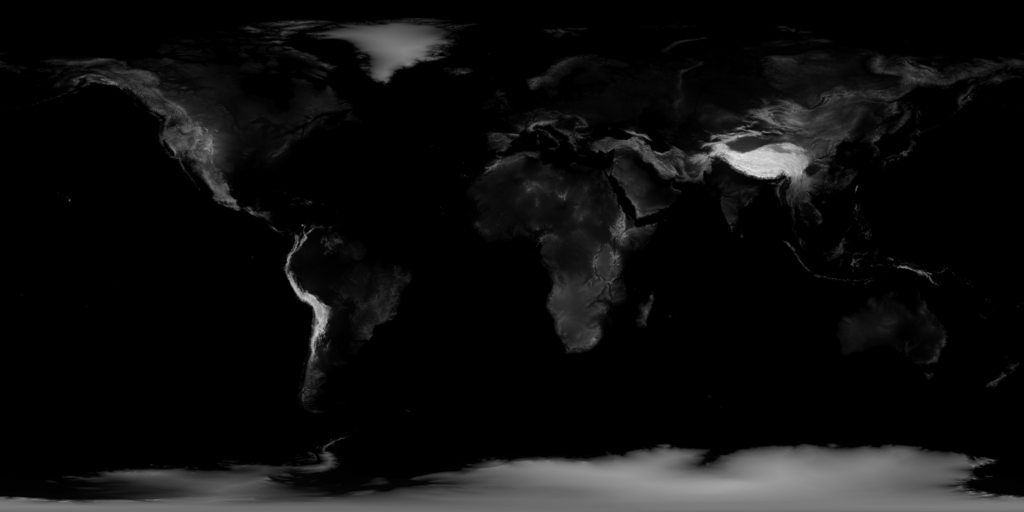
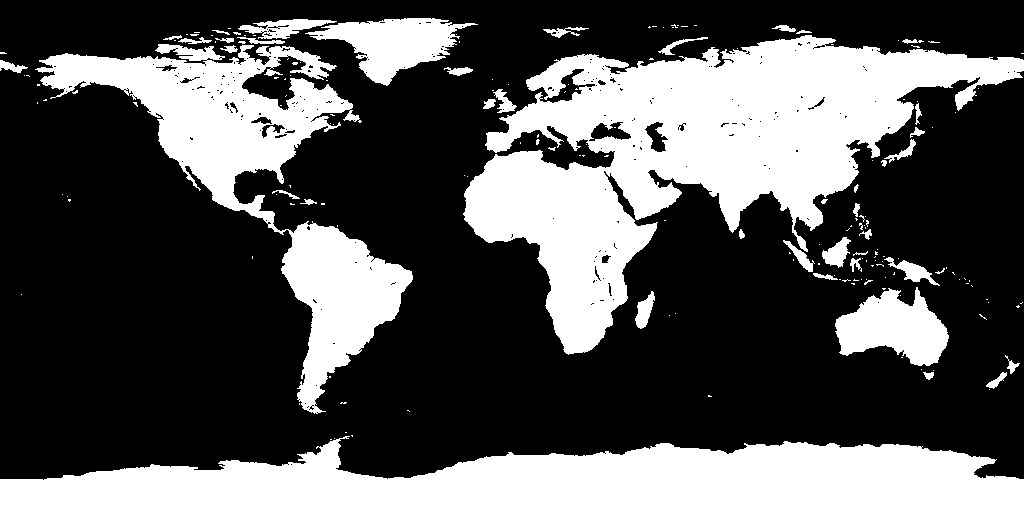
Globe: use a real land/sea mask (fixes hole in the Amazon)
earth-topology.png is an ELEVATION map, so flat low-lying land (the Amazon
basin reads gray(2), same as ocean) fell below the land threshold and left a
big ocean-shaped hole in the middle of South America. Rebuild earth-mask.png
from earth-water.png instead — a true binary land/sea mask (Amazon, Congo,
Sahara all now classify as land). Crisp 1-bit 1024x512.

diff --git a/src/Ravelin/wwwroot/globe.js b/src/Ravelin/wwwroot/globe.js
@@ -99,7 +99,7 @@
                 const sample = (lat, lon) => {
                     let x = (((lon + 180) / 360) * W) | 0; if (x < 0) x = 0; else if (x >= W) x = W - 1;
                     let y = (((90 - lat) / 180) * H) | 0; if (y < 0) y = 0; else if (y >= H) y = H - 1;
-                    return px[(y * W + x) * 4] > 8; // land = topology above sea level
+                    return px[(y * W + x) * 4] > 8; // binary land/sea mask: white = land
                 };
                 land = buildLand(sample);
                 hotspots = pickHotspots(land);